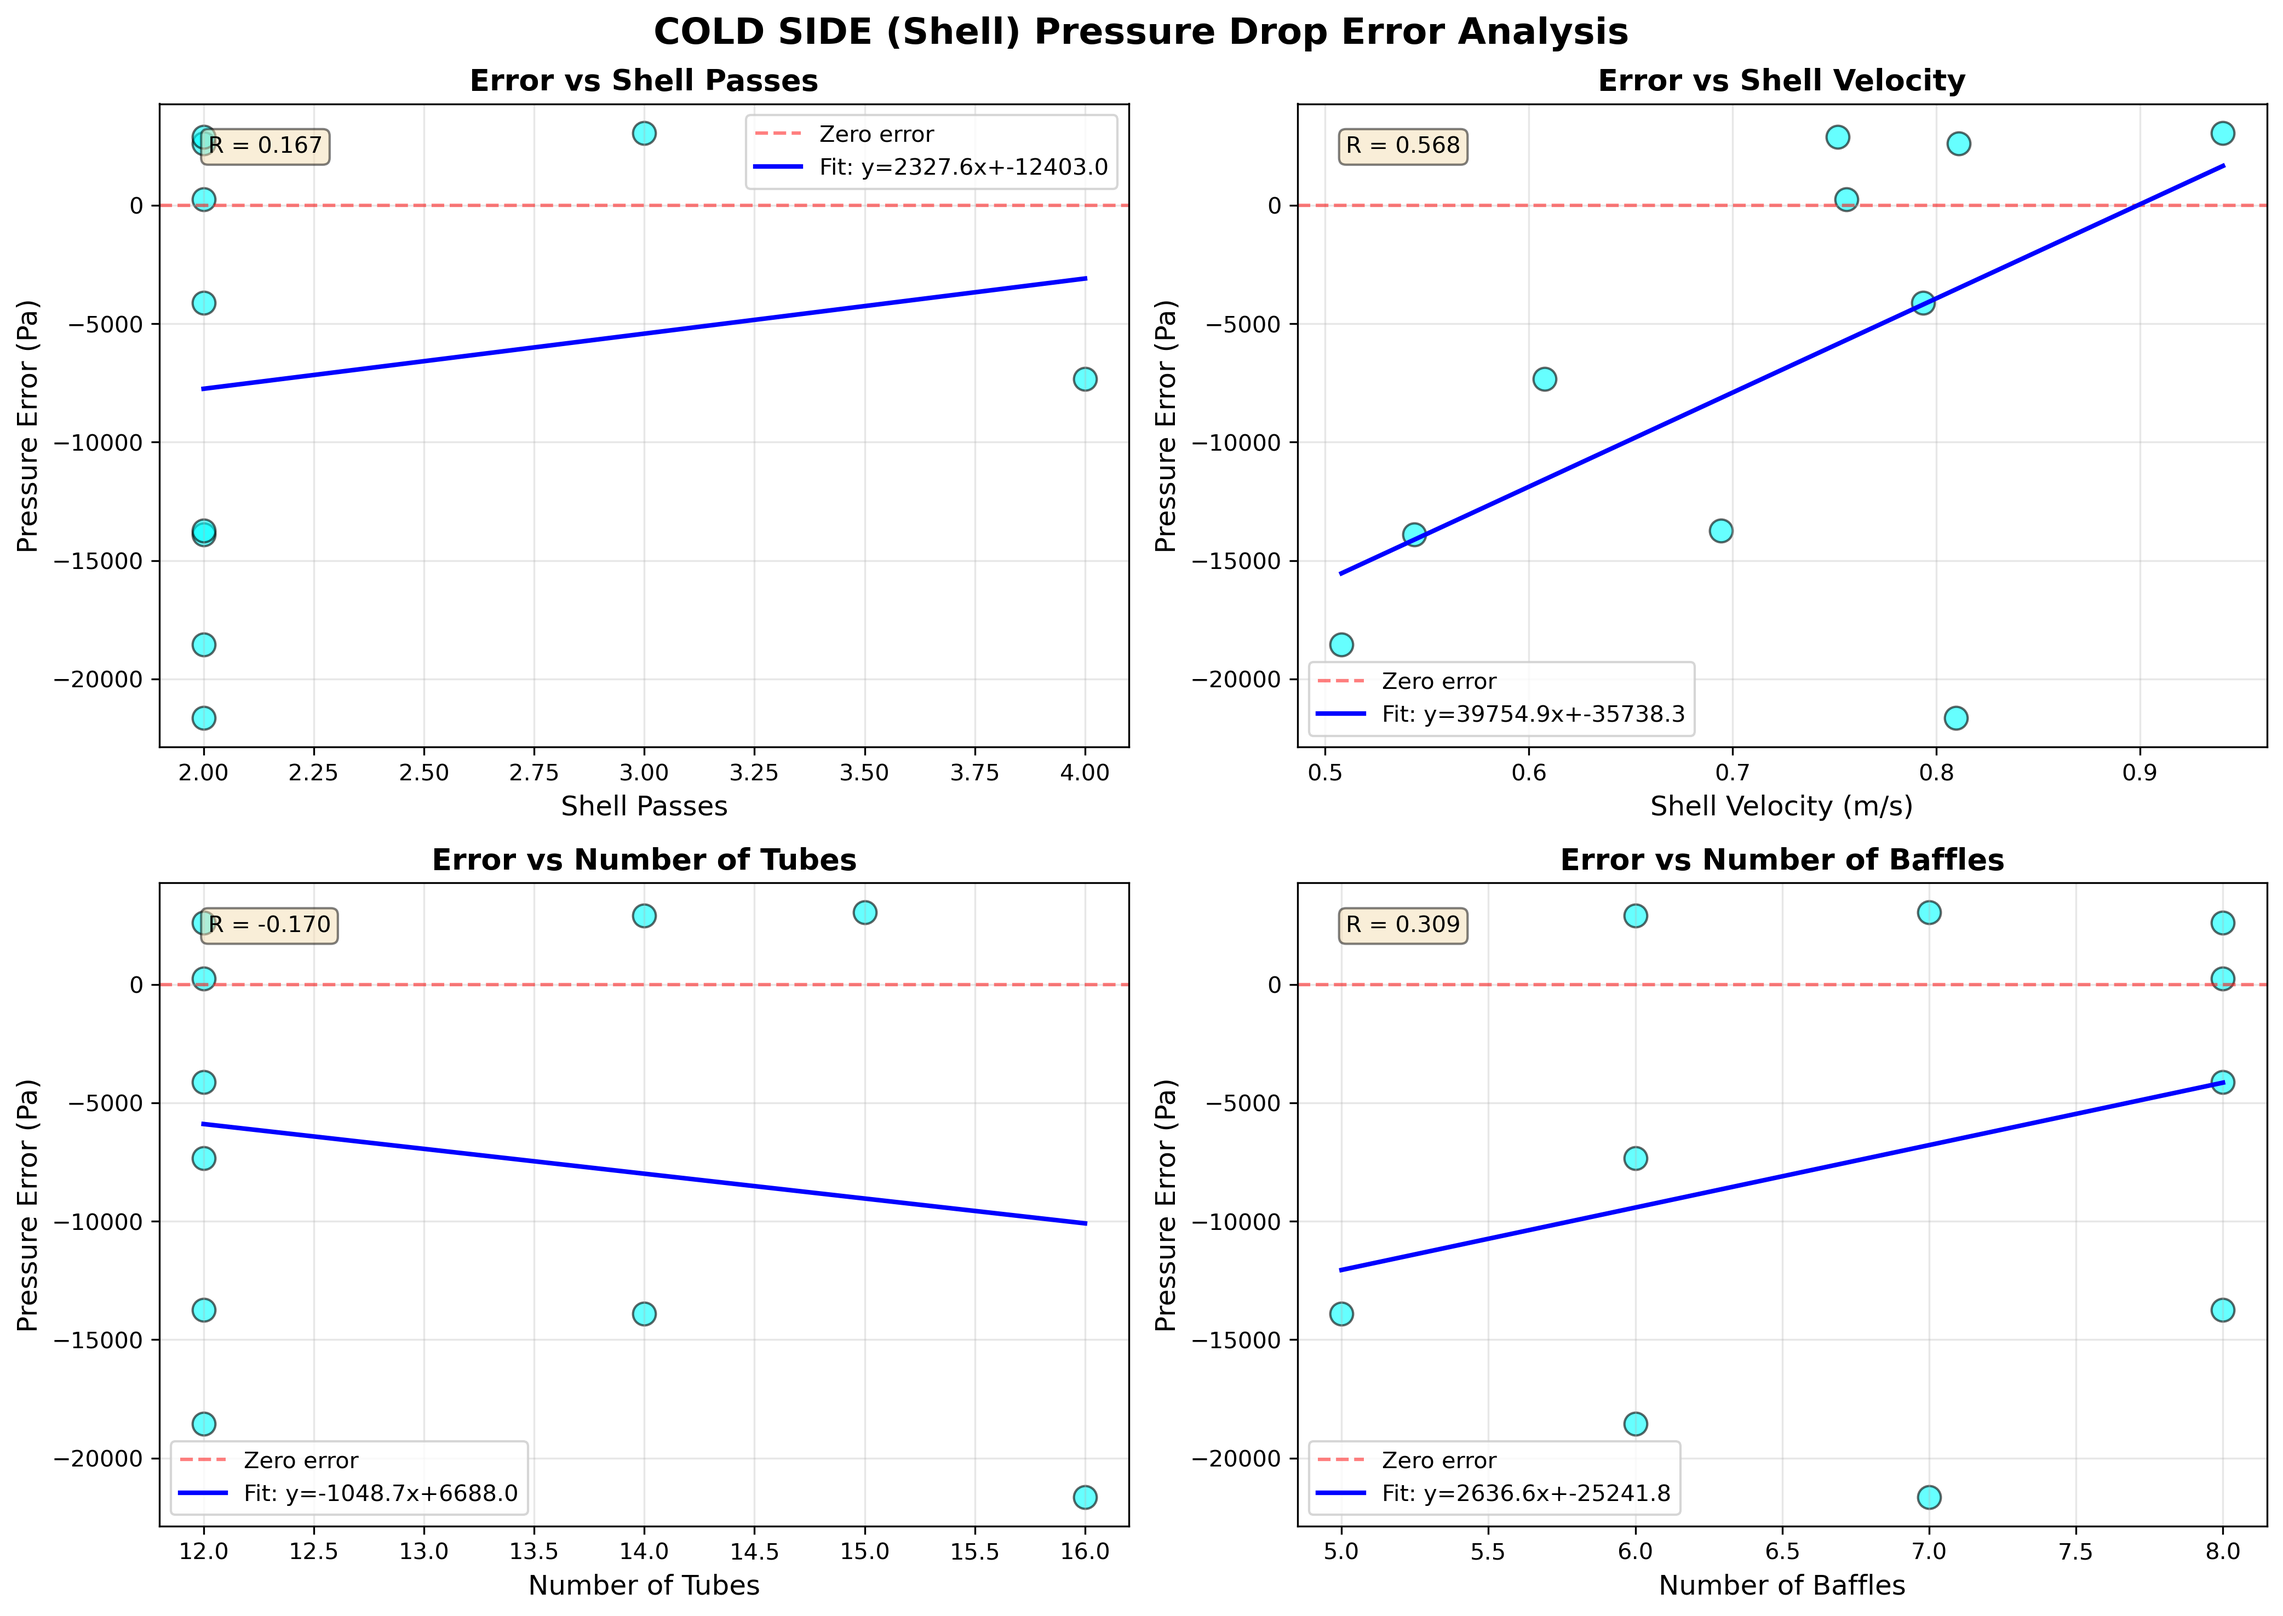
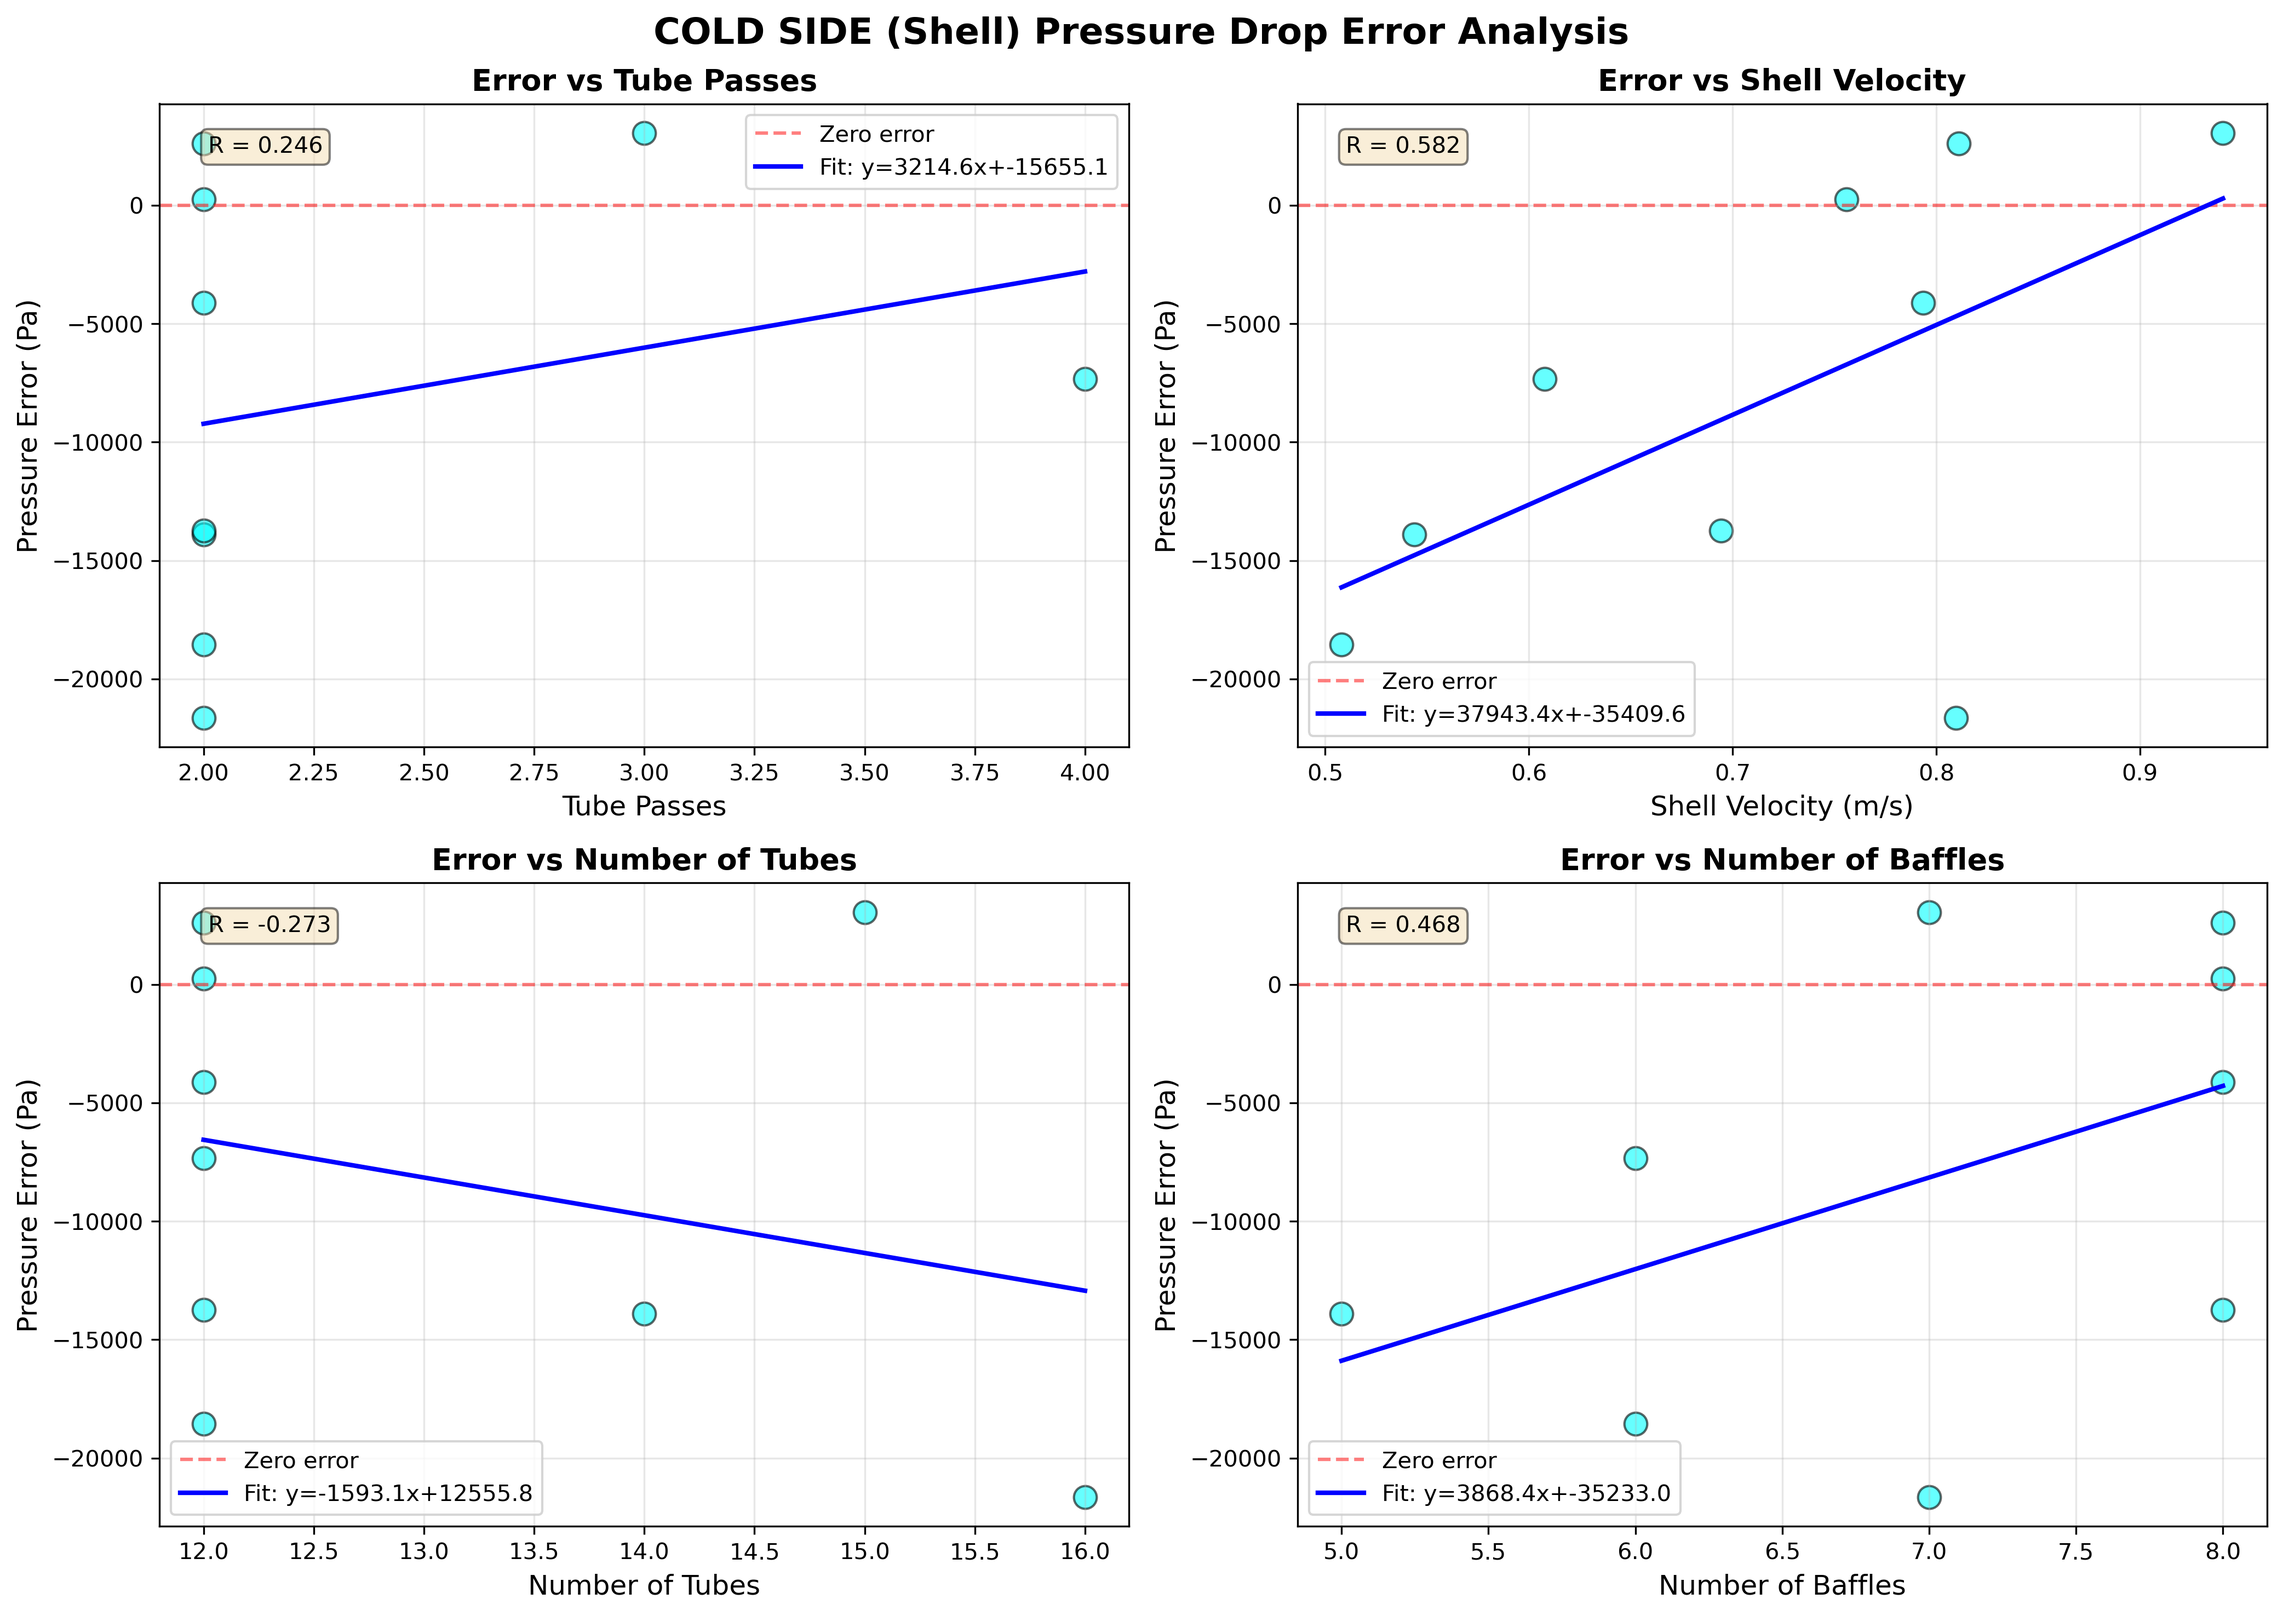
Tinkering this afternoon

diff --git a/previous_HXs.py b/previous_HXs.py
@@ -15,12 +15,12 @@ heat_exchanger_data = [
     [12,8,0.278,14e-3,False, 2, 1], #2024A
     [12,8,0.260,14e-3,False, 2, 1], #2024B
     [12,8,0.290,14e-3,False, 2, 2], #2024C
-    [14,6,0.250,12e-3,False, 2, 1], #2024D
+    # [14,6,0.250,12e-3,False, 2, 1], #2024D
     [15,7,0.233,14e-3,False, 3, 1], #2024E
 
     # [14,10,0.25,14e-3,False, 2, 1], #2023A
     # [16, 6,0.194,14e-3,False, 4, 2], #2023B 
-    # # [18,12,0.160,14e-3,False, 4, 2], #2023C - Very anomolous result (supposedly no leaks?!?)
+    # [18,12,0.160,14e-3,False, 4, 2], #2023C - Very anomolous result (supposedly no leaks?!?)
     # [10,8,0.246,14e-3,False, 2, 1], #2023D
     # [12,11,0.261,14e-3,False, 2, 1], #2023E
 
@@ -49,13 +49,13 @@ experimental_data = [
     [19.9, 24.0, 0.161e5, 54.7, 48.8, 0.188e5, 10.29, 0.577, 0.434],  # 24 Group-A
     [21.0, 24.0, 0.201e5, 48.2, 43.3, 0.235e5, 7.29, 0.528, 0.388],   # 24 Group-B
     [20.3, 24.0, 0.195e5, 49.7, 44.1, 0.236e5, 8.92, 0.561, 0.392],   # 24 Group-C
-    [20.5, 24.6, 0.150e5, 51.5, 43.7, 0.138e5, 11.45, 0.577, 0.399],  # 24 Group-D
+    # [20.5, 24.6, 0.150e5, 51.5, 43.7, 0.138e5, 11.45, 0.577, 0.399],  # 24 Group-D
     [21.1, 24.6, 0.158e5, 48.2, 42.3, 0.272e5, 8.74, 0.569, 0.371],   # 24 Group-E
 
     # # --- 2023 data ---
     # [22.1, 25.7, 0.287e5, 48.2, 42.9, 0.186e5, 9.00, 0.594, 0.409], # A
     # [23.1, 27.1, 0.381e5, 49.3, 43.2, 0.264e5, 8.69, 0.495, 0.357], # B
-    # # [21.6, 24.0, 0.303e5, 49.3, 45.0, 0.252e5, 6.00, 0.561, 0.354], # C
+    # [21.6, 24.0, 0.303e5, 49.3, 45.0, 0.252e5, 6.00, 0.561, 0.354], # C
     # [24.2, 28.0, 0.270e5, 55.3, 48.9, 0.219e5, 9.84, 0.602, 0.378], # D
     # [21.0, 25.4, 0.307e5, 49.8, 43.5, 0.180e5, 10.48, 0.569, 0.399], # E
 

diff --git a/ranker.py b/ranker.py
@@ -1,6 +1,6 @@
 from optimiser import fullSolver
 from previous_HXs import hxs, temperatures, heat_transfers
 
-letters = ['A','B','C','D','E','A','B','C','D','E']
-for n in range(0,10):
+letters = ['A','B','C','D','E','A','B','C','E']
+for n in range(0,9):
     print(letters[n], f'{fullSolver(hxs[n],temperatures[n][0],temperatures[n][2])[1]/1000:.2f}', heat_transfers[n])

diff --git a/test_pressure_change.py b/test_pressure_change.py
@@ -152,7 +152,7 @@ fig.suptitle('COLD SIDE (Shell) Pressure Drop Error Analysis', fontsize=16, font
 
 # Plot 1: Error vs Shell Passes
 x1 = num_tube_passes
-label1 = 'Shell Passes'
+label1 = 'Tube Passes'
 ax = axes[0, 0]
 ax.scatter(x1, cold_errors, s=100, alpha=0.6, edgecolors='k', c='cyan')
 ax.axhline(0, color='r', linestyle='--', alpha=0.5, label='Zero error')

diff --git a/weight_limits.py b/weight_limits.py
@@ -19,7 +19,7 @@ def getWeight(hx):
 if __name__ == "__main__":
     realWeights = [1.124, 1.095, 1.029, 1.081, 1.074,
                 1.110, 1.127, 1.364, 1.145, 1.162,
-                1.101, 1.096, #0.964, 
+                1.101, 1.096, 0.964, 
                 0.965, 1.094,
                 ]
 
